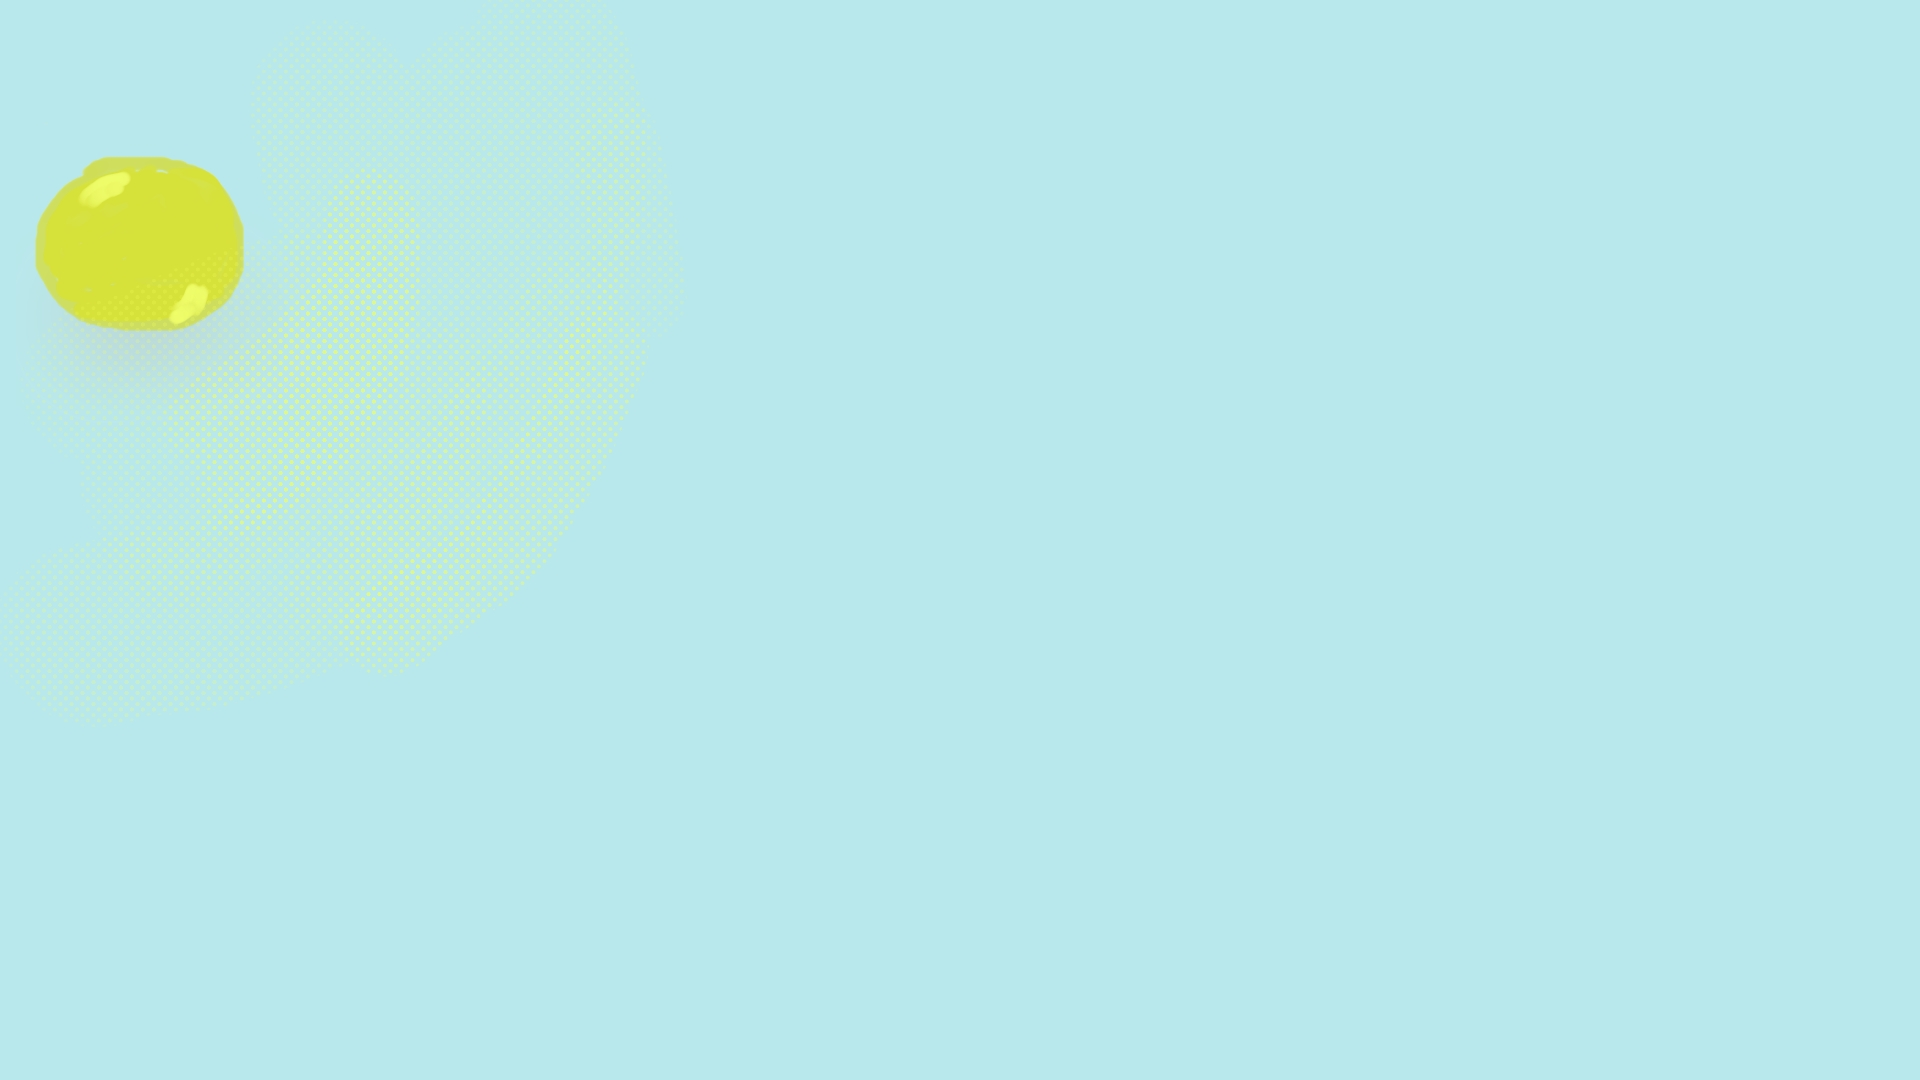
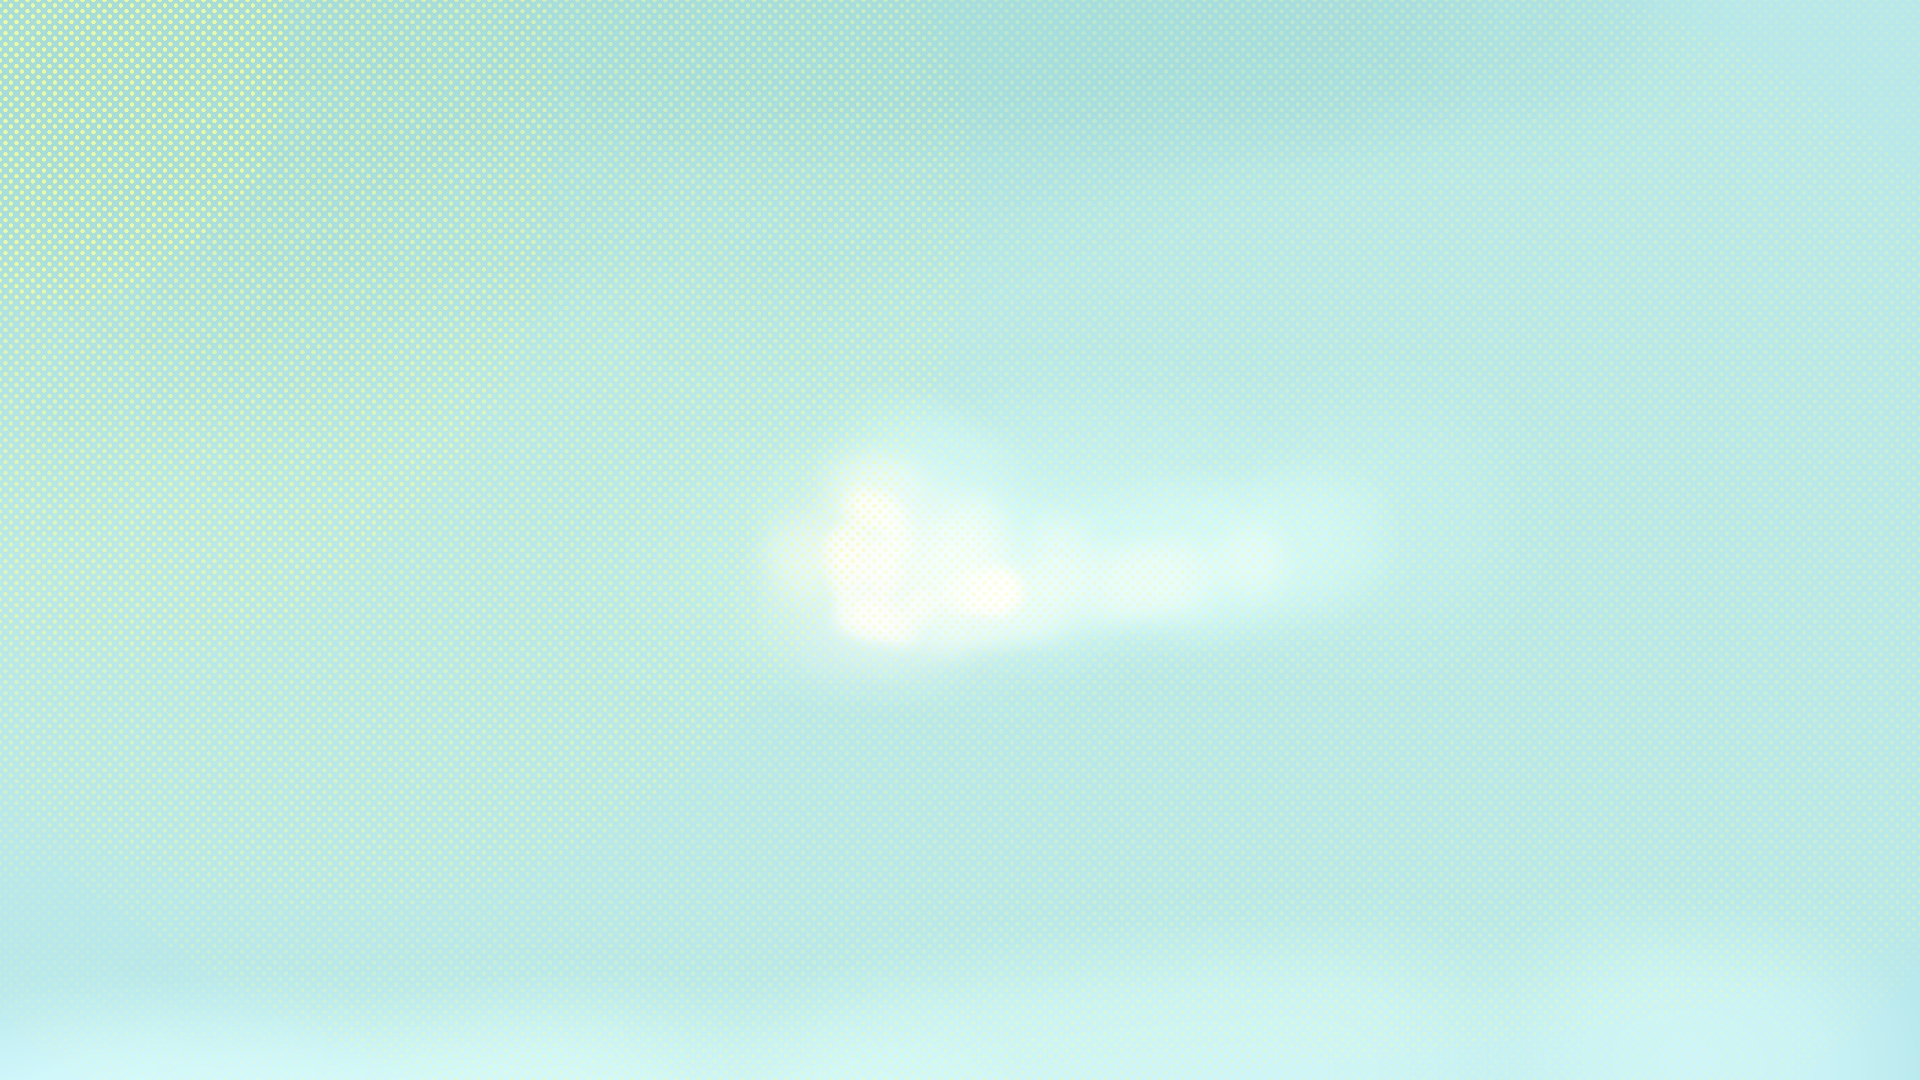
finished logic for weatherInfoTable, remastered weather art, small changes to logic

diff --git a/src/App.js b/src/App.js
@@ -4,6 +4,7 @@ import SideBarTable from './components/sideBarTable';
 import WeatherInfoTable from './components/weatherInfoTable';
 import Sunny from './images/Sunny.jpg';
 import Clear from './images/Clear.jpg';
+import Clouds from './images/Clouds.jpg';
 import Drizzle from './images/Drizzle.jpg';
 import Rain from './images/Rain.jpg';
 import Tuhnderstorm from './images/Thunderstorm.jpg';
@@ -20,46 +21,76 @@ class App extends Component {
       weatherInfoTableData: {},
       currentImage: "Loading",
       forecastListTable: [],
-      currentTime:'',
+      currentDay: "Loading",
+      currentTime: '',
 
     }
   }
 
-  componentDidMount() {
-    const UNIXTime = Math.round(new Date().getTime()/1000);
+  async componentDidMount() {
+    const UNIXTime = Math.round(new Date().getTime() / 1000);
     const _currentTime = this.convertUNIXTimestampToTime(UNIXTime);
+  
 
-    fetch('http://api.openweathermap.org/data/2.5/weather?q=Olomouc,CZ&appid=aa794bac773a44c2e0248797cec961b0')
-      .then(response => response.json())
-      .then(data => new Promise((resolve, reject) => {
-        this.setState({
-          currentInfoTableData: {
-            day: "Dnes",
-            weather: data.weather[0].main,
-            location: data.name,
-            temperature: this.toCelsiusConverter(data.main.temp),
-          },
-          weatherInfoTableData: {
-            description: data.weather[0].description,
-            tempMin: this.toCelsiusConverter(data.main.temp_min),
-            tempMax: this.toCelsiusConverter(data.main.temp_max),
-            pressure: data.main.pressure,
-            humidity: data.main.humidity + '%',
-            wind: data.wind.speed + ' m/s',
-            sunrise: this.convertUNIXTimestampToTime(data.sys.sunrise),
-            sunset: this.convertUNIXTimestampToTime(data.sys.sunset),
-          },
-          currentTime:_currentTime
-        });
 
-        resolve(data);
-      })
-      )
-      .then(data => this.imageChanger(data.weather[0].main));
+    /* GEOLOCATION */
+    // const _adress = await this.getLocation();
 
-      
+
+    const response = await fetch('http://api.openweathermap.org/data/2.5/weather?q=Olomouc,CZ&appid=aa794bac773a44c2e0248797cec961b0');
+    const data = await response.json();
+    this.setState({
+      currentInfoTableData: {
+        currentDay: "Today",
+        weather: data.weather[0].main,
+        location: data.name,
+        temperature: this.toCelsiusConverter(data.main.temp),
+        currentTime: _currentTime
+      },
+      weatherInfoTableData: {
+        description: data.weather[0].description,
+        tempMin: this.toCelsiusConverter(data.main.temp_min),
+        tempMax: this.toCelsiusConverter(data.main.temp_max),
+        pressure: data.main.pressure,
+        humidity: data.main.humidity + '%',
+        wind: data.wind.speed + ' m/s',
+        sunrise: this.convertUNIXTimestampToTime(data.sys.sunrise),
+        sunset: this.convertUNIXTimestampToTime(data.sys.sunset),
+      },
+
+    });
+
+
+    await this.imageChanger(data.weather[0].main);
+
+
   }
 
+/* GEOLOCATION METHODS */
+  // getLocation = () => {
+  //   if (navigator.geolocation) {
+  //     return navigator.geolocation.getCurrentPosition(this.getCoordinates);
+  //   }
+  //   else {
+  //     const adress = 'http://api.openweathermap.org/data/2.5/weather?q=Olomouc,CZ&appid=aa794bac773a44c2e0248797cec961b0';
+  //     return adress;
+  //   }
+  // }
+
+  // getCoordinates = (pos) => {
+  //   const crd = pos.coords;
+  //   const lat = crd.latitude;
+  //   const long = crd.latitude;
+
+  //   this.setState({
+  //     location: `[${lat}] + [${long}]`
+  //   });
+    
+  //   const adress = `http://api.openweathermap.org/data/2.5/weather?lat=${lat}&lon=${long}&appid=aa794bac773a44c2e0248797cec961b0`;
+  //   console.log(adress);
+   
+  //   return adress;
+  // }
 
 
 
@@ -83,6 +114,9 @@ class App extends Component {
       case "Clear":
         this.setState({ currentImage: Clear });
         break;
+      case "Clouds":
+        this.setState({ currentImage: Clouds });
+        break;
       case "Drizzle":
         this.setState({ currentImage: Drizzle });
         break;
@@ -98,16 +132,32 @@ class App extends Component {
   }
 
 
-  sidebarItemActivation = (temp, weather, time) => {
+  sidebarItemActivation = (temp, weather, time, day) => {
     this.setState({
-        currentInfoTableData: {
-          temperature: temp,
-          weather: weather,
-          day: time,
-        }
+      currentInfoTableData: {
+        temperature: temp,
+        weather: weather,
+        currentTime: time,
+        currentDay: day
       }
-    )
+    })
     this.imageChanger(weather);
+  }
+
+
+  weatherInfoTableActivation = (weatherDesc, tempMin, tempMax, wind, pressure, humidity, sunrise, sunset) => {
+    this.setState({
+      weatherInfoTableData: {
+        description: weatherDesc,
+        tempMin: this.toCelsiusConverter(tempMin),
+        tempMax: this.toCelsiusConverter(tempMax),
+        pressure: pressure,
+        humidity: humidity + '%',
+        wind: wind + ' m/s',
+        sunrise: this.convertUNIXTimestampToTime(sunrise) === 'Invalid Date'? 'N/A': this.convertUNIXTimestampToTime(sunrise),
+        sunset: this.convertUNIXTimestampToTime(sunset) === 'Invalid Date'? 'N/A': this.convertUNIXTimestampToTime(sunrise),
+      }
+    })
   }
 
   render() {
@@ -117,14 +167,16 @@ class App extends Component {
           img={this.state.currentImage}
           infoTableData={this.state.currentInfoTableData}
           location={this.state.location}
-          time={this.state.currentTime}
         ></HeaderTable>
 
-        <WeatherInfoTable data={this.state.weatherInfoTableData}></WeatherInfoTable>
+        <WeatherInfoTable
+         data={this.state.weatherInfoTableData}
+         ></WeatherInfoTable>
 
         <SideBarTable
           forecastListTable={this.state.forecastListTable}
-          propagateinfo={this.sidebarItemActivation}
+          propagateinfoTableData={this.sidebarItemActivation}
+          propagateInfoWeatherTableData = {this.weatherInfoTableActivation}
         ></SideBarTable>
       </React.Fragment>
     )

diff --git a/src/components/sidebarItem.js b/src/components/sidebarItem.js
@@ -13,6 +13,18 @@ const sidebarItem = (props) =>{
             var time = new Date(input * 1000);
             return time.toLocaleTimeString([], { hour: '2-digit', minute: '2-digit' });
     }
+
+    const convertUNIXTimestampToDay = (input) => {
+        let time = new Date(input * 1000);
+        let days = ["Sunday", "Monday", "Tuesday", "Wednesday", "Thursday", "Friday", "Saturday"];
+        return days[time.getDay()];
+    }
+
+    const onDoubleClick = (event) => {
+        props.propagateinfoTableData(props.temp,props.weather,convertUNIXTimestampToTime(props.time), convertUNIXTimestampToDay(props.time));
+        props.propagateInfoWeatherTableData(props.item.weather[0].description, props.item.main.temp_min, props.item.main.temp_max, props.item.wind.speed, props.item.main.pressure, props.item.main.humidity, props.item.sys.sunrise, props.item.sys.sunset);
+     }
+
         
 return(
     <React.Fragment>
@@ -21,14 +33,13 @@ return(
 
         <div className={isGreaterThan12(props.time)? "sidebarItem night" : "sidebarItem day"}
 
-        onDoubleClick={() => props.function(props.temp,props.weather,props.time)}
+        onDoubleClick={() => onDoubleClick()}
 
         >
 
+            <p className="sidebarItem__time">{convertUNIXTimestampToDay(props.time)}</p>
             <p className="sidebarItem__time">{convertUNIXTimestampToTime(props.time)}</p>
-            <p className="sidebarItem__temp">{props.temp}</p>
-            <p className="sidebarItem__weather">{props.weather}</p>
-
+            <p className="sidebarItem__temp">{props.weather} - {props.temp}</p>
          </div>
      
 

diff --git a/src/components/sideBarTable.js b/src/components/sideBarTable.js
@@ -17,10 +17,11 @@ class sideBarTable extends Component {
 
 
     async componentDidMount(){
-        const response = await fetch('http://api.openweathermap.org/data/2.5/forecast?q=Olomouc,CZ&appid=aa794bac773a44c2e0248797cec961b0')
-        const data = await response.json()
+
+        const response = await fetch('http://api.openweathermap.org/data/2.5/forecast?q=Olomouc,CZ&appid=aa794bac773a44c2e0248797cec961b0');
+        const data = await response.json();
         this.setState({
-            newForecastListTable: data.list.slice(0, 20)
+            newForecastListTable: data.list
         })
         this.scrollEventListeners();
 
@@ -29,12 +30,13 @@ class sideBarTable extends Component {
             
             <SidebarItem
                 
+                item = {item}
 
                 temp={tempConverter(item.main.temp)}
                 weather={item.weather[0].main}
                 time={item.dt} 
-                function = {this.props.propagateinfo}
-                
+                propagateinfoTableData = {this.props.propagateinfoTableData}
+                propagateInfoWeatherTableData = {this.props.propagateInfoWeatherTableData}
 
             ></SidebarItem>)
 

diff --git a/src/components/infoTable.js b/src/components/infoTable.js
@@ -9,7 +9,7 @@ const infoTable = (props) => {
             {props.infoTableData &&
                 <React.Fragment>
                     <div className="infoTable">
-                        <h1 className="infoTable__header">{props.infoTableData.day}:{props.time} - {props.location}</h1>
+                        <h1 className="infoTable__header">{props.infoTableData.currentDay}: {props.infoTableData.currentTime} - {props.location}</h1>
 
                         <hr className="infoTable__hr"></hr>
 

diff --git a/src/components/sidebarItem.css b/src/components/sidebarItem.css
@@ -19,16 +19,12 @@
     font-weight: 600;
     transition: 0.2s;
     transform: scale(1.8);
-
 }
 
 .sidebarItem__time{
 margin-top: 10px;
 transition: margin-top 0.25s;
 }
-
-
-
 
 .sidebarItem__temp{
     margin-top: 0px;
@@ -38,9 +34,12 @@ transition: margin-top 0.25s;
 }
 
 .day{
-    background-color: #d0e1f9;
+    background-color: #dfe2e6;
     color:  black;
     opacity: 0.75;
+}
+.day:hover{
+    border: 1px solid #adc3e9;
 }
 
 .night{

diff --git a/src/components/infoTable.css b/src/components/infoTable.css
@@ -2,12 +2,12 @@
     text-transform: uppercase;
     position: absolute;
     z-index: 999;
-    right: 10%;
-    top: 14%;
+    right: 8%;
+    top: 11%;
    
     font-size: 1.5rem;
-    width: 18rem;
-    height: 9rem;;
+    width: 22rem;
+    height: 11rem;;
     padding: 1.5rem;
     background: white;
     box-shadow: -32px -32px 10px -33px rgba(0,0,0,0.54);

diff --git a/src/components/weatherInfoTable.css b/src/components/weatherInfoTable.css
@@ -1,12 +1,13 @@
 .weatherInfoTable{
-    width: 18rem;
+    width: 22rem;
+    
     display: grid;
     grid-row-gap: 5px;
     border-right: 6px solid black;
     z-index: 999;
     position: absolute;
     bottom: 280px;
-    right: 11%;
+    right: 9%;
     transition: border-right 0.35s;
     background-color: white;
     padding: 15px;
